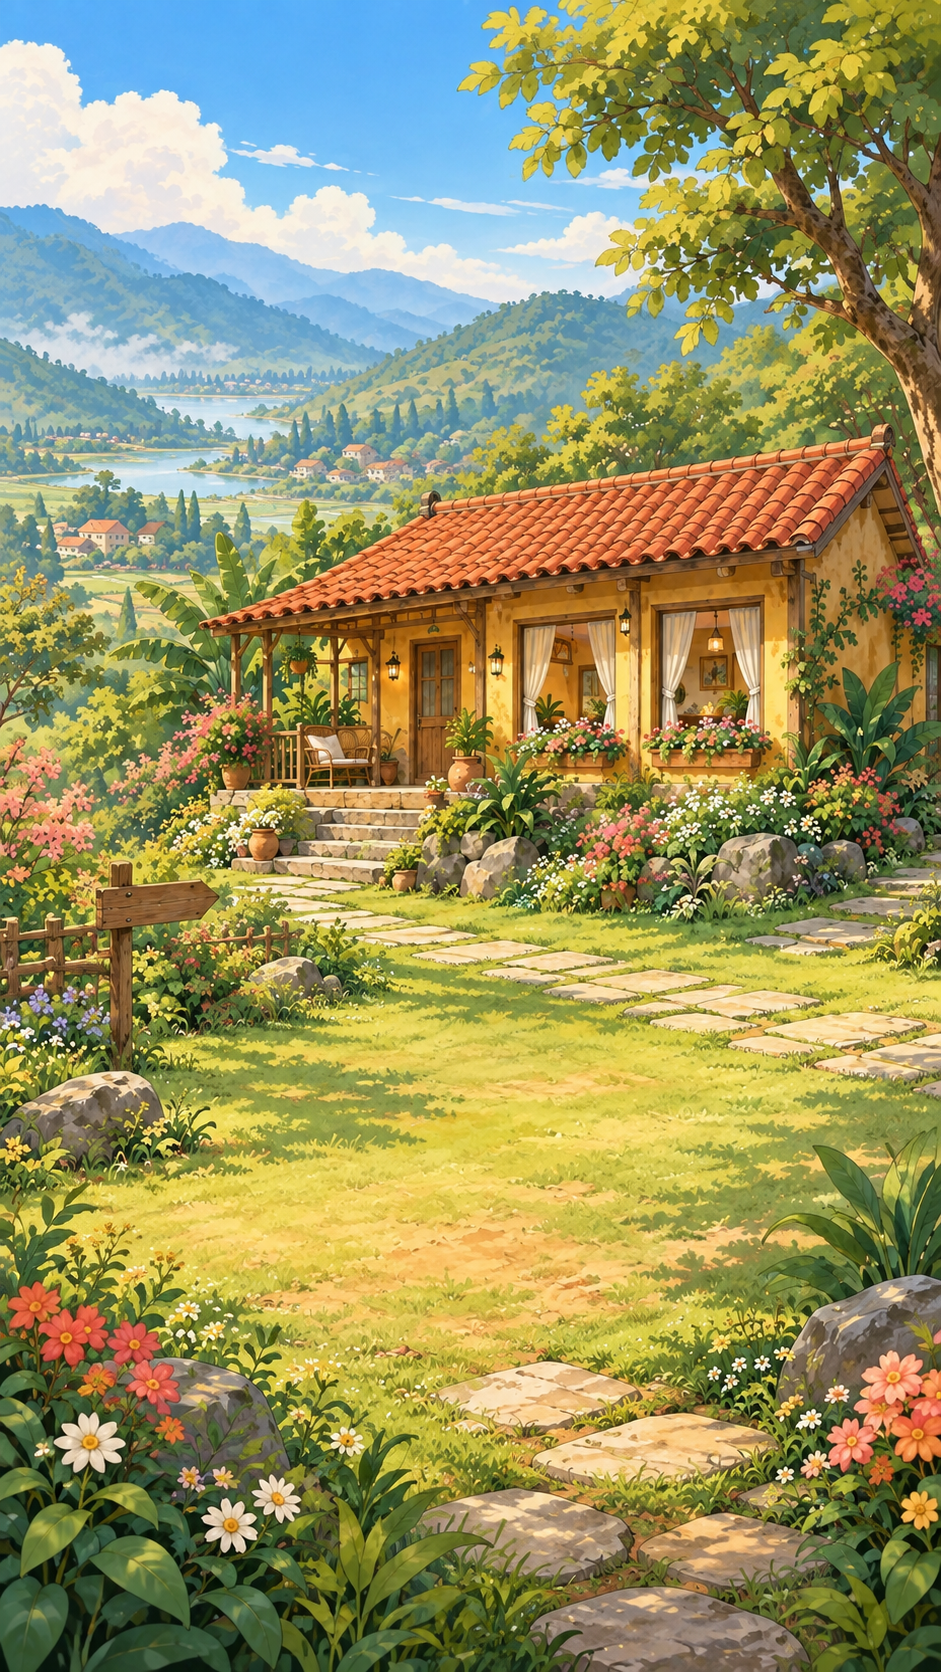
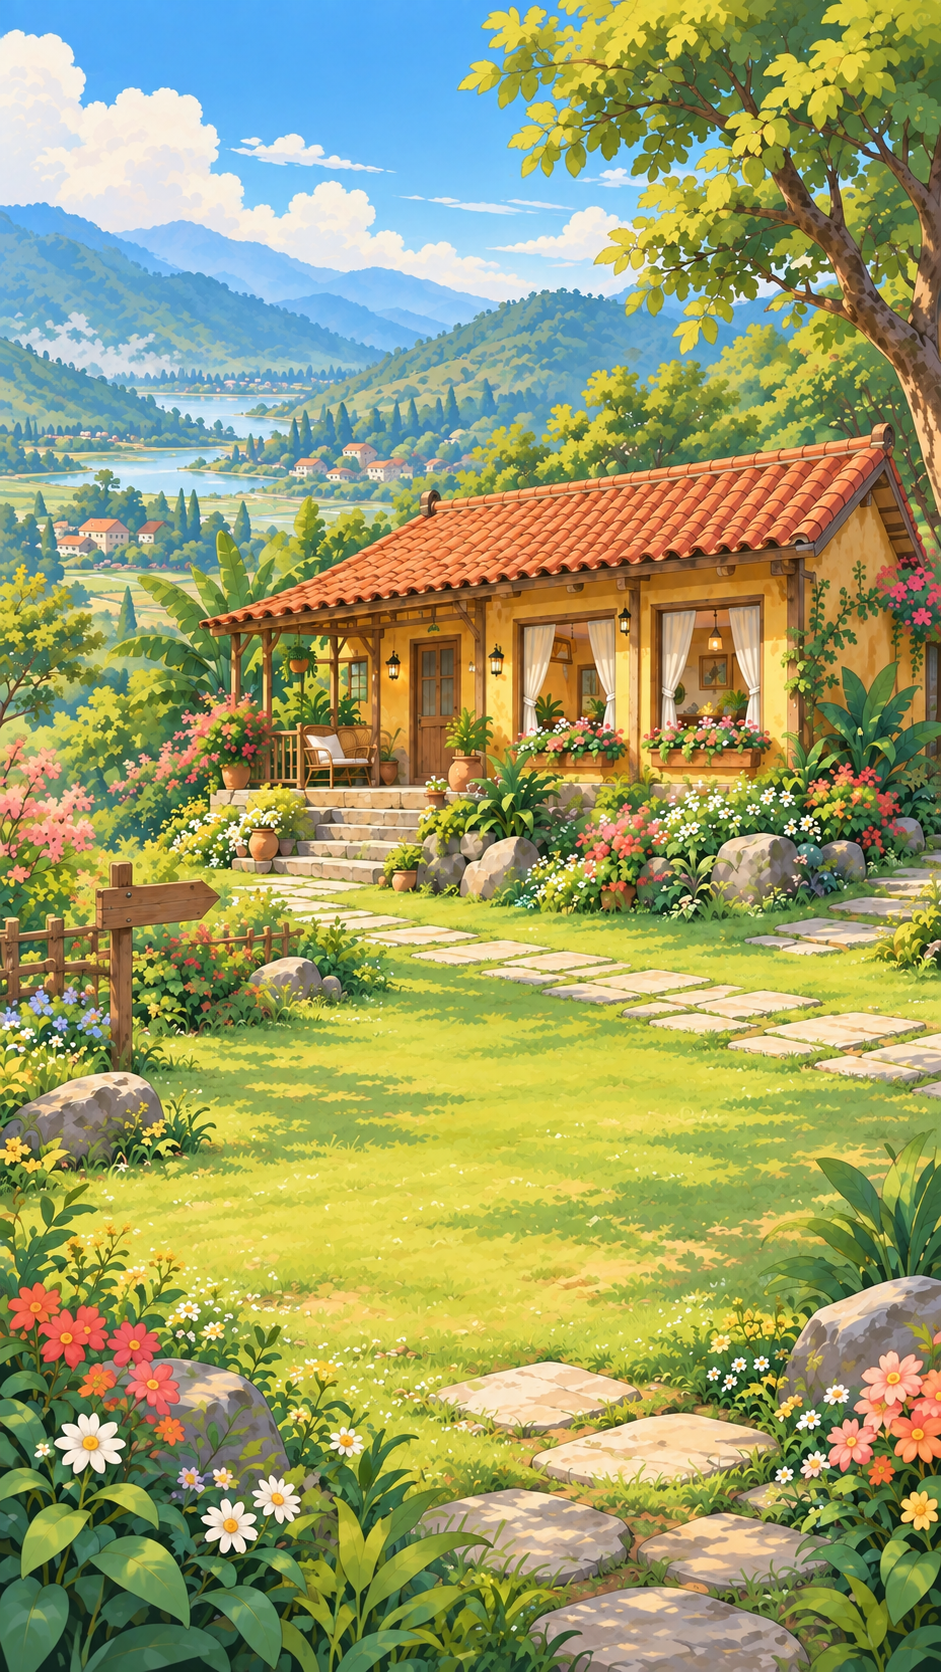
Restyle homestay scenes as cute 2D anime

diff --git a/homestay-2d/README.md b/homestay-2d/README.md
@@ -15,7 +15,7 @@ Mở [http://localhost:8000/homestay-2d/](http://localhost:8000/homestay-2d/).
 ## Nội dung game
 
 - Canvas 2D thuần, không dùng Three.js.
-- Nền cảnh minh họa 2D vẽ tay tại `assets/homestay-scene.png`, có marker phòng động.
+- Nền cảnh 2D anime dễ thương tại `assets/homestay-scene.png`, có marker phòng động.
 - Trên màn hình rộng dùng nền ngang; trên iPhone tự chuyển sang `assets/homestay-scene-portrait.png` theo tỷ lệ 9:16.
 - Hai phòng, vốn khởi điểm 100 triệu đồng, một ngày game dài 48 giây.
 - Mỗi ngày có lịch khách ngẫu nhiên từ 14:00 đến 21:30; khách trả phòng vào buổi sáng ngày kế tiếp.

diff --git a/README.md b/README.md
@@ -20,7 +20,7 @@ Sau đó truy cập `http://localhost:8000/`.
 - Khách trả phòng vào buổi sáng hôm sau; doanh thu được ghi đúng lúc trả phòng.
 - Phòng sau checkout cần dọn; có thể tự dọn hoặc thuê người dọn.
 - Có nâng cấp tiện nghi, marketing, sổ sách và tự lưu bằng `localStorage`.
-- Nền cảnh ngang và ảnh dọc 9:16 cho màn hình iPhone.
+- Toàn bộ ảnh cảnh dùng phong cách 2D anime dễ thương; có bản ngang và bản dọc 9:16 cho màn hình iPhone.
 
 ## Bản 2.5D cũ
 
